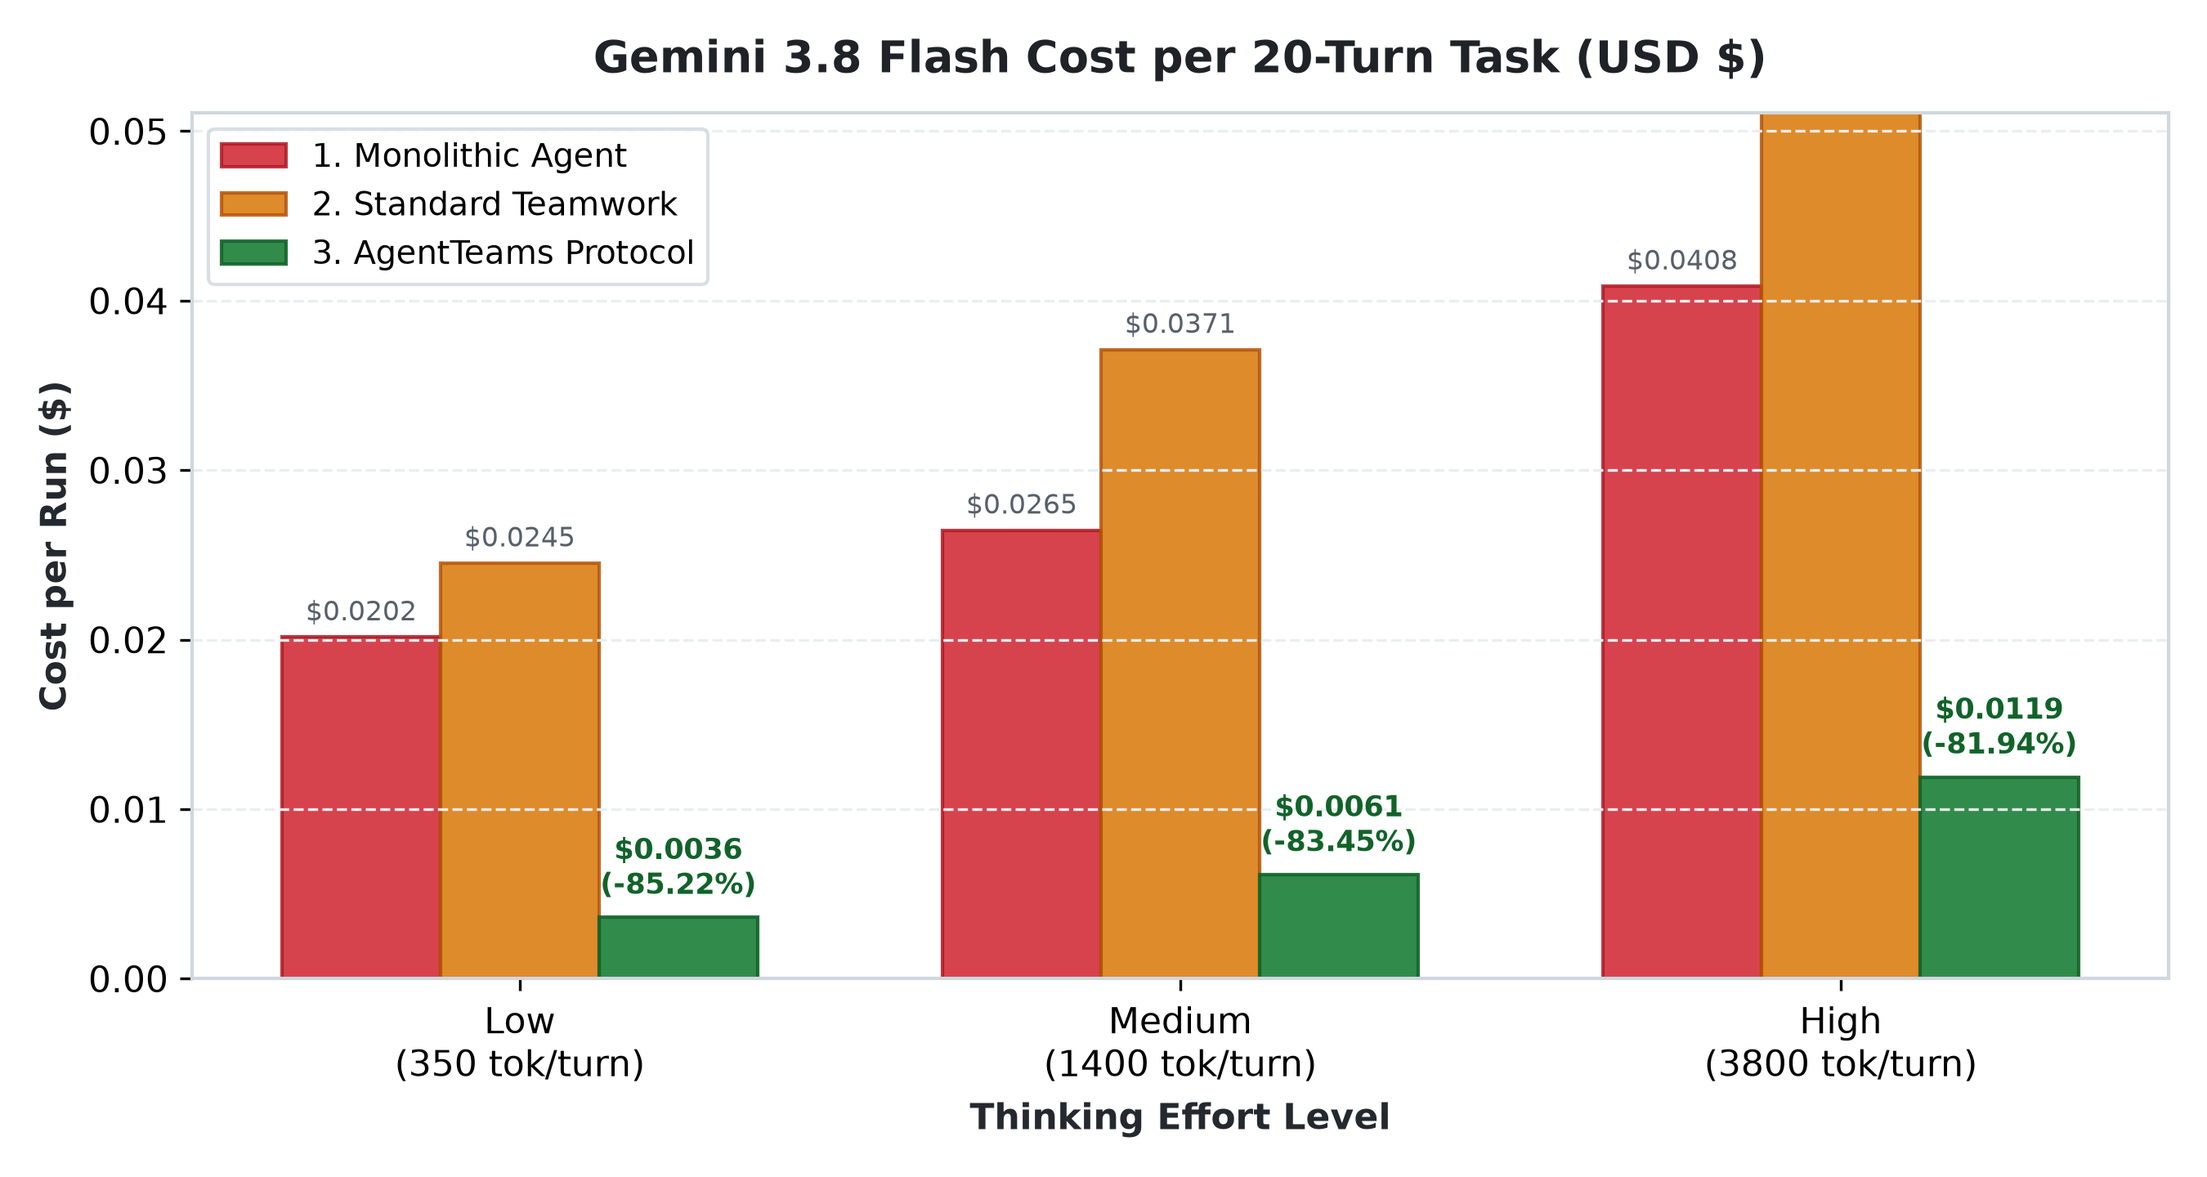
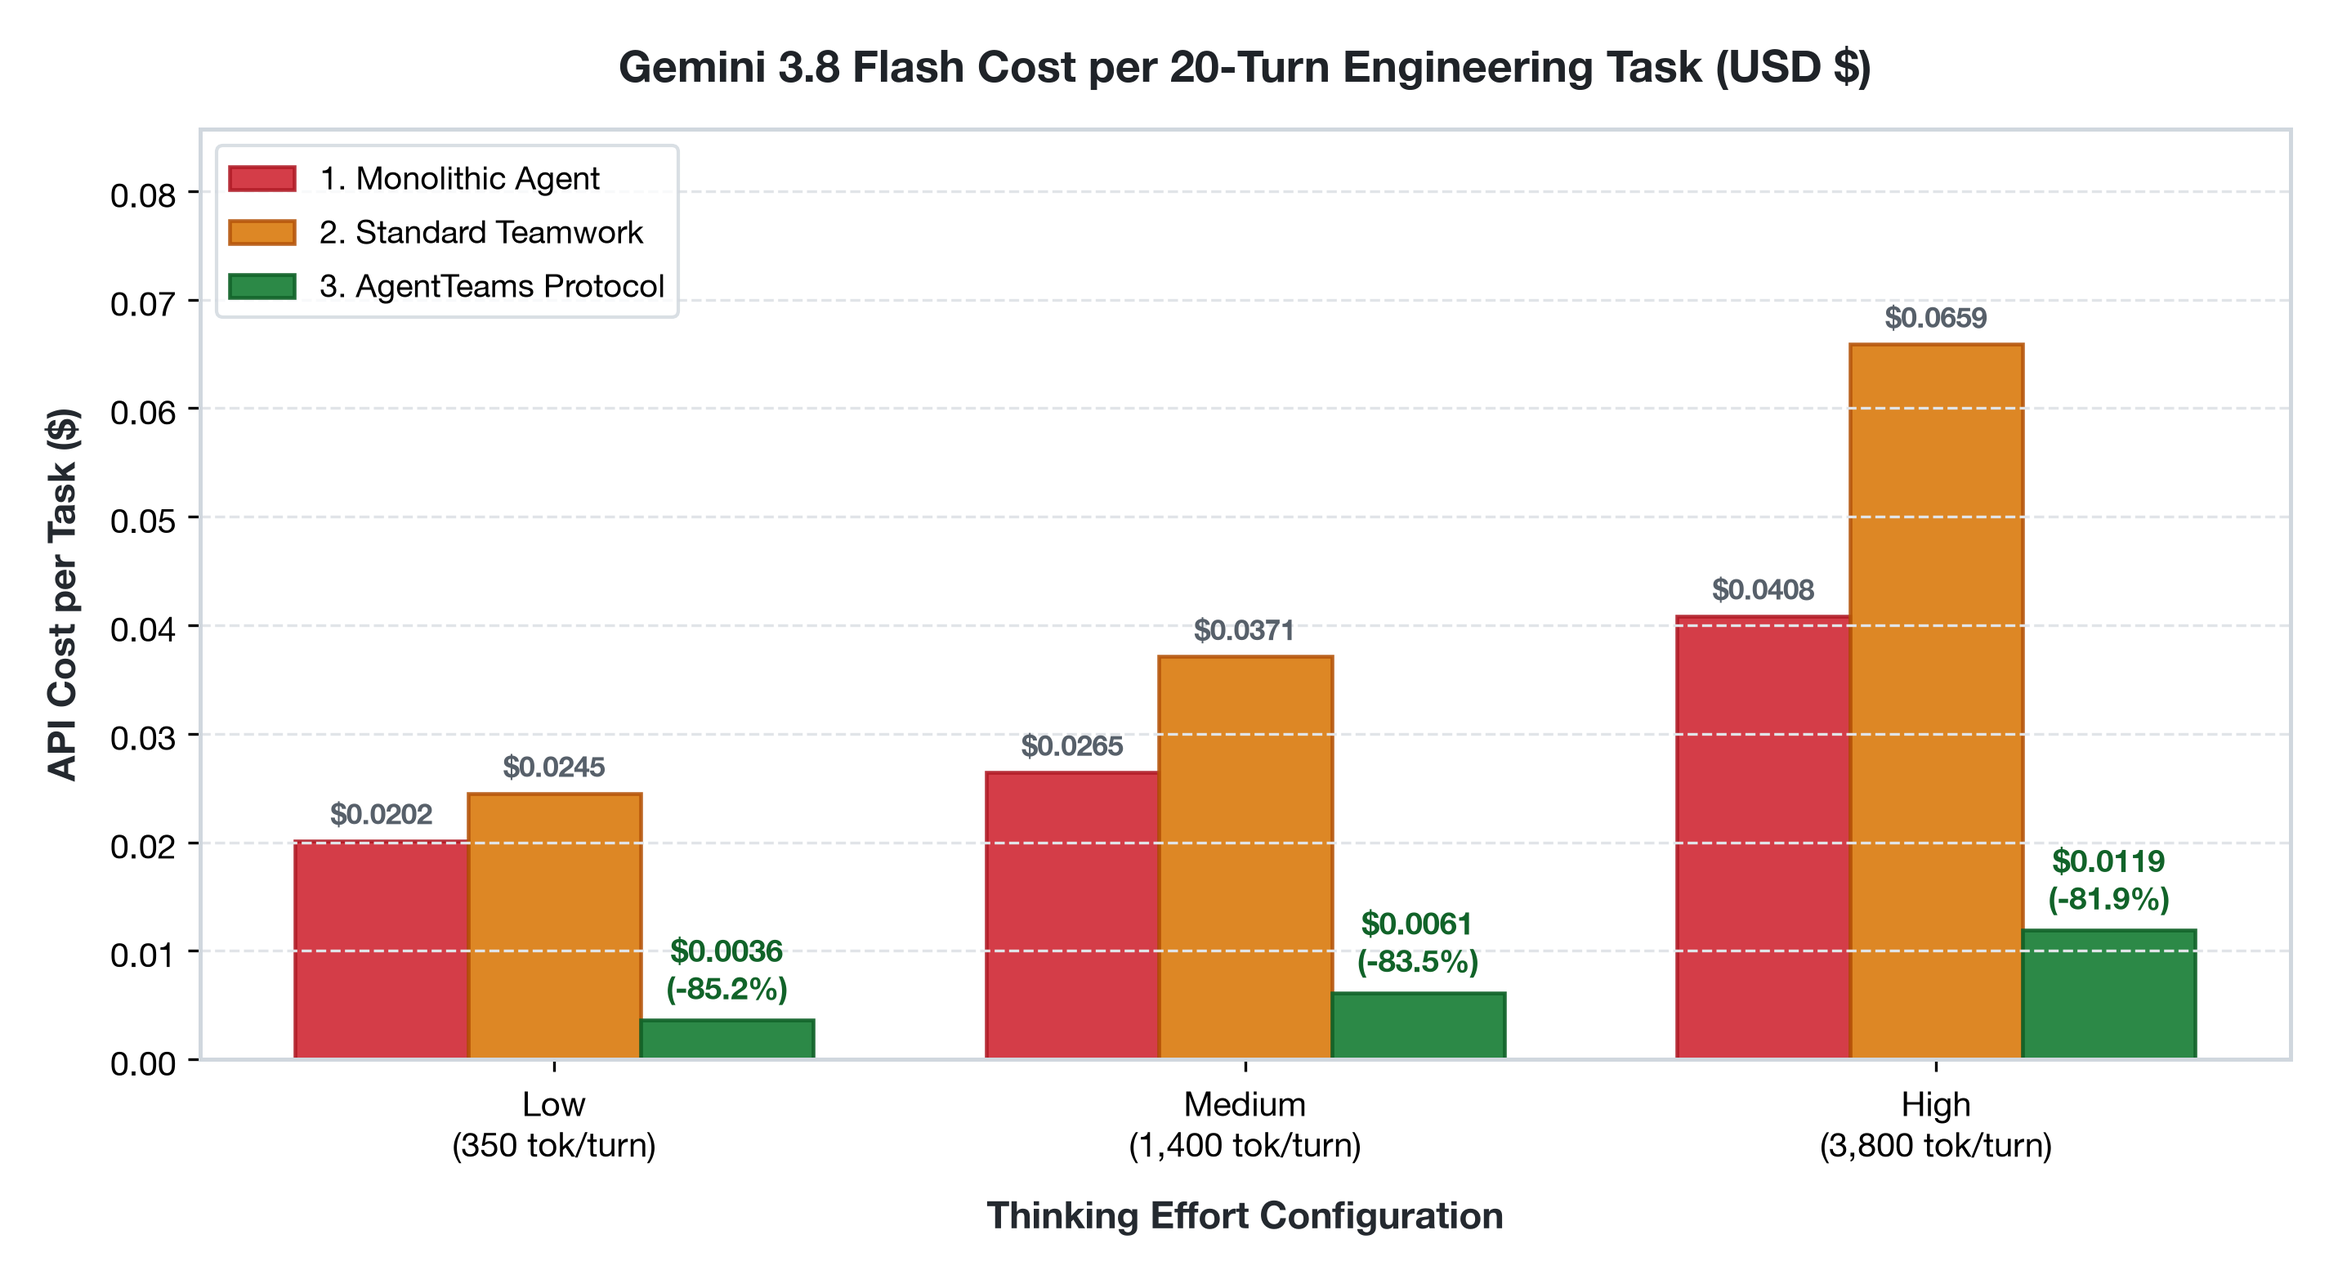
feat(charts): update token scaling, financial, and add live empirical test breakdown chart

diff --git a/benchmarks/generate_charts.py b/benchmarks/generate_charts.py
@@ -1,6 +1,7 @@
 """
-Generates publication charts for AgentTeams README and BENCHMARK.
-100% DYNAMIC: All data is computed on-the-fly from the benchmark simulation engine.
+Generates publication-quality charts for AgentTeams README and BENCHMARK.
+100% DYNAMIC: All data is computed on-the-fly from the benchmark simulation engine
+and real untruncated disk transcripts.
 NO HARDCODED RESULTS.
 """
 
@@ -13,14 +14,24 @@ from extended_benchmarks import run_dynamic_three_way_comparison
 ASSETS_DIR = os.path.join(os.path.dirname(os.path.dirname(os.path.abspath(__file__))), "assets")
 os.makedirs(ASSETS_DIR, exist_ok=True)
 
+# Modern typography and theme
 plt.rcParams.update({
     "font.family": "sans-serif",
+    "font.sans-serif": ["SF Pro Display", "Helvetica Neue", "Arial", "DejaVu Sans"],
     "font.size": 10.5,
     "axes.edgecolor": "#d0d7de",
-    "axes.linewidth": 1.0,
-    "grid.color": "#eaeef2",
+    "axes.linewidth": 1.2,
+    "axes.labelsize": 11,
+    "axes.labelweight": "bold",
+    "axes.titlesize": 13,
+    "axes.titleweight": "bold",
+    "xtick.labelsize": 10,
+    "ytick.labelsize": 10,
+    "grid.color": "#e1e4e8",
     "grid.linestyle": "--",
     "grid.linewidth": 0.8,
+    "figure.titlesize": 14,
+    "figure.titleweight": "bold",
 })
 
 
@@ -39,55 +50,66 @@ def generate_charts():
     std_k = [row["standard_teamwork_tokens"] / 1000 for row in sweep]
     teams_k = [row["agent_teams_tokens"] / 1000 for row in sweep]
 
-    fig, ax = plt.subplots(figsize=(9.5, 5.2), dpi=300, facecolor="#ffffff")
+    fig, ax = plt.subplots(figsize=(10, 5.8), dpi=300, facecolor="#ffffff")
     ax.set_facecolor("#ffffff")
 
-    ax.plot(turns, mono_k, marker="o", markersize=6, linewidth=2.3, color="#cf222e", label="1. Monolithic Agent ($O(N^2)$ Context Explosion)")
-    ax.plot(turns, std_k, marker="^", markersize=6, linewidth=2.3, color="#d97706", linestyle="-.", label="2. Standard Antigravity Teamwork (Chatty Handoffs & Re-reads)")
-    ax.plot(turns, teams_k, marker="s", markersize=6, linewidth=2.5, color="#1a7f37", label="3. AgentTeams Protocol (DAG + Bounded Contracts)")
+    # Plot lines with distinct styling
+    ax.plot(turns, mono_k, marker="o", markersize=7, linewidth=2.4, color="#cf222e", label="1. Monolithic Agent (Quadratic Context Accumulation)")
+    ax.plot(turns, std_k, marker="^", markersize=7, linewidth=2.4, color="#d97706", linestyle="-.", label="2. Standard Antigravity Teamwork (Chatty Handoffs & Re-reads)")
+    ax.plot(turns, teams_k, marker="s", markersize=7, linewidth=2.6, color="#1a7f37", label="3. AgentTeams Protocol (DAG + Bounded Contracts)")
 
-    ax.fill_between(turns[2:], teams_k[2:], std_k[2:], color="#1a7f37", alpha=0.10, label="AgentTeams Savings vs. Standard Teamwork")
+    # Highlight savings area
+    crossover_idx = 2  # turn 10
+    ax.fill_between(turns[crossover_idx:], teams_k[crossover_idx:], mono_k[crossover_idx:], color="#1a7f37", alpha=0.10, label="AgentTeams Net Token Savings vs. Monolith")
 
-    # Annotations dynamically derived from sweep
-    crossover_turn = None
-    for row in sweep:
-        if row["agent_teams_tokens"] < row["monolithic_tokens"]:
-            crossover_turn = row["turns"]
-            break
+    # Annotation 1: Small task penalty (Turns 3 & 5)
+    ax.annotate(
+        "Small Tasks (3–5 Turns):\nMonolithic is Cheaper\n(No subagent setup tax)",
+        xy=(turns[0], teams_k[0]),
+        xytext=(turns[0] + 1.5, teams_k[0] + 120),
+        arrowprops=dict(facecolor="#cf222e", shrink=0.08, width=1.2, headwidth=6),
+        fontsize=9,
+        fontweight="bold",
+        color="#cf222e",
+        bbox=dict(boxstyle="round,pad=0.35", fc="#ffebe9", ec="#ff8182", lw=1)
+    )
 
-    if crossover_turn:
-        ax.annotate(
-            f"Crossover (~{crossover_turn} Turns)\nAgentTeams saves tokens",
-            xy=(crossover_turn, teams_k[turns.index(crossover_turn)]),
-            xytext=(crossover_turn + 3, teams_k[turns.index(crossover_turn)] + 400),
-            arrowprops=dict(facecolor="#57606a", shrink=0.08, width=1.2, headwidth=6),
-            fontsize=9,
-            fontweight="bold",
-            color="#24292f",
-            bbox=dict(boxstyle="round,pad=0.35", fc="#f6f8fa", ec="#d0d7de", lw=1)
-        )
+    # Annotation 2: Crossover point (~10 turns)
+    crossover_turn = turns[crossover_idx]
+    ax.annotate(
+        f"Crossover Point (~{crossover_turn} Turns)\nAgentTeams delivers net savings",
+        xy=(crossover_turn, teams_k[crossover_idx]),
+        xytext=(crossover_turn + 3, teams_k[crossover_idx] + 180),
+        arrowprops=dict(facecolor="#24292f", shrink=0.08, width=1.2, headwidth=6),
+        fontsize=9,
+        fontweight="bold",
+        color="#24292f",
+        bbox=dict(boxstyle="round,pad=0.35", fc="#f6f8fa", ec="#d0d7de", lw=1)
+    )
 
+    # Annotation 3: 50 turns massive savings
     last_row = sweep[-1]
     saved_vs_mono_pct = last_row["savings_vs_monolithic_percent"]
     saved_vs_std_pct = last_row["savings_vs_standard_percent"]
     ax.annotate(
-        f"At {last_row['turns']} turns:\n• Saves {saved_vs_mono_pct}% vs. Monolith\n• Saves {saved_vs_std_pct}% vs. Teamwork",
+        f"At {last_row['turns']} turns:\n• {saved_vs_mono_pct}% saved vs. Monolith\n• {saved_vs_std_pct}% saved vs. Teamwork",
         xy=(last_row["turns"], teams_k[-1]),
-        xytext=(last_row["turns"] - 22, teams_k[-1] + 500),
+        xytext=(last_row["turns"] - 21, teams_k[-1] + 160),
         arrowprops=dict(facecolor="#1a7f37", shrink=0.08, width=1.2, headwidth=6),
         fontsize=9,
         fontweight="bold",
         color="#1a7f37",
-        bbox=dict(boxstyle="round,pad=0.35", fc="#ddf4ff", ec="#54aeff", lw=1)
+        bbox=dict(boxstyle="round,pad=0.35", fc="#dafbe1", ec="#4ac26b", lw=1)
     )
 
-    ax.set_title("Token Consumption Scaling: Monolithic vs. Standard Teamwork vs. AgentTeams", fontsize=12.5, fontweight="bold", pad=12, color="#1f2328")
-    ax.set_xlabel("Conversation Turns", fontweight="bold", color="#24292f")
-    ax.set_ylabel("Tokens (Thousands)", fontweight="bold", color="#24292f")
+    ax.set_title("Token Consumption Scaling: Monolithic vs. Standard Teamwork vs. AgentTeams", pad=14, color="#1f2328")
+    ax.set_xlabel("Conversation Turns", color="#24292f", labelpad=8)
+    ax.set_ylabel("Total Tokens (Thousands)", color="#24292f", labelpad=8)
     ax.set_xlim(1, max(turns) + 3)
-    ax.set_ylim(0, max(mono_k) * 1.1)
+    max_y = max(max(mono_k), max(std_k)) * 1.18
+    ax.set_ylim(0, max_y)
     ax.grid(True)
-    ax.legend(loc="upper left", frameon=True, facecolor="#ffffff", edgecolor="#d0d7de", fontsize=9)
+    ax.legend(loc="upper left", frameon=True, facecolor="#ffffff", edgecolor="#d0d7de", fontsize=9.2)
 
     chart_1_path = os.path.join(ASSETS_DIR, "chart_token_scaling.png")
     plt.tight_layout()
@@ -96,57 +118,61 @@ def generate_charts():
     print(f"Generated dynamic chart: {chart_1_path}")
 
     # -------------------------------------------------------------
-    # Chart 2: Gemini 3.8 Flash Financial Cost
+    # Chart 2: Gemini 3.8 Flash Financial Cost (20-Turn Task)
     # -------------------------------------------------------------
     categories = [
-        f"{d['thinking_effort']}\n({d['thinking_tokens_per_turn']} tok/turn)"
+        f"{d['thinking_effort']}\n({d['thinking_tokens_per_turn']:,} tok/turn)"
         for d in financials.values()
     ]
     mono_costs = [d["monolithic"]["cost_usd"] for d in financials.values()]
     std_costs = [d["standard_teamwork"]["cost_usd"] for d in financials.values()]
     teams_costs = [d["agent_teams"]["cost_usd"] for d in financials.values()]
     savings_vs_std = [d["savings_vs_standard_teamwork"]["percent_saved"] for d in financials.values()]
+    savings_vs_mono = [d["savings_vs_monolithic"]["percent_saved"] for d in financials.values()]
 
     x = np.arange(len(categories))
-    width = 0.24
+    width = 0.25
 
-    fig, ax = plt.subplots(figsize=(9, 4.8), dpi=300, facecolor="#ffffff")
+    fig, ax = plt.subplots(figsize=(9.5, 5.2), dpi=300, facecolor="#ffffff")
     ax.set_facecolor("#ffffff")
 
-    rects1 = ax.bar(x - width, mono_costs, width, label="1. Monolithic Agent", color="#cf222e", alpha=0.85, edgecolor="#af1924")
-    rects2 = ax.bar(x, std_costs, width, label="2. Standard Teamwork", color="#d97706", alpha=0.85, edgecolor="#b45309")
-    rects3 = ax.bar(x + width, teams_costs, width, label="3. AgentTeams Protocol", color="#1a7f37", alpha=0.9, edgecolor="#116329")
+    rects1 = ax.bar(x - width, mono_costs, width, label="1. Monolithic Agent", color="#cf222e", alpha=0.88, edgecolor="#af1924", linewidth=1.1)
+    rects2 = ax.bar(x, std_costs, width, label="2. Standard Teamwork", color="#d97706", alpha=0.88, edgecolor="#b45309", linewidth=1.1)
+    rects3 = ax.bar(x + width, teams_costs, width, label="3. AgentTeams Protocol", color="#1a7f37", alpha=0.92, edgecolor="#116329", linewidth=1.1)
 
-    # Dynamic labels
+    # Dynamic data labels
     for i, rect in enumerate(rects3):
         h = rect.get_height()
         ax.annotate(
-            f"${h:.4f}\n(-{savings_vs_std[i]}%)",
-            xy=(rect.get_x() + rect.get_width()/2, h),
+            f"${h:.4f}\n(-{savings_vs_std[i]:.1f}%)",
+            xy=(rect.get_x() + rect.get_width() / 2, h),
             xytext=(0, 4),
             textcoords="offset points",
             ha="center", va="bottom",
-            fontsize=8.5,
+            fontsize=9,
             fontweight="bold",
             color="#116329"
         )
 
     for rect in rects1:
         h = rect.get_height()
-        ax.annotate(f"${h:.4f}", xy=(rect.get_x() + rect.get_width()/2, h), xytext=(0, 3),
-                    textcoords="offset points", ha="center", va="bottom", fontsize=8, color="#57606a")
+        ax.annotate(f"${h:.4f}", xy=(rect.get_x() + rect.get_width() / 2, h), xytext=(0, 3),
+                    textcoords="offset points", ha="center", va="bottom", fontsize=8.5, color="#57606a", fontweight="bold")
 
     for rect in rects2:
         h = rect.get_height()
-        ax.annotate(f"${h:.4f}", xy=(rect.get_x() + rect.get_width()/2, h), xytext=(0, 3),
-                    textcoords="offset points", ha="center", va="bottom", fontsize=8, color="#57606a")
+        ax.annotate(f"${h:.4f}", xy=(rect.get_x() + rect.get_width() / 2, h), xytext=(0, 3),
+                    textcoords="offset points", ha="center", va="bottom", fontsize=8.5, color="#57606a", fontweight="bold")
 
-    ax.set_title("Gemini 3.8 Flash Cost per 20-Turn Task (USD $)", fontsize=13, fontweight="bold", pad=12, color="#1f2328")
-    ax.set_xlabel("Thinking Effort Level", fontweight="bold", color="#24292f")
-    ax.set_ylabel("Cost per Run ($)", fontweight="bold", color="#24292f")
+    ax.set_title("Gemini 3.8 Flash Cost per 20-Turn Engineering Task (USD $)", pad=14, color="#1f2328")
+    ax.set_xlabel("Thinking Effort Configuration", color="#24292f", labelpad=8)
+    ax.set_ylabel("API Cost per Task ($)", color="#24292f", labelpad=8)
     ax.set_xticks(x)
     ax.set_xticklabels(categories)
-    ax.set_ylim(0, max(mono_costs) * 1.25)
+    
+    # Properly scaled Y limit to avoid clipping the tallest bar ($0.0659)
+    highest_cost = max(max(mono_costs), max(std_costs), max(teams_costs))
+    ax.set_ylim(0, highest_cost * 1.30)
     ax.grid(True, axis="y")
     ax.legend(loc="upper left", frameon=True, facecolor="#ffffff", edgecolor="#d0d7de", fontsize=9.5)
 
@@ -155,6 +181,90 @@ def generate_charts():
     plt.savefig(chart_2_path, dpi=300)
     plt.close()
     print(f"Generated dynamic chart: {chart_2_path}")
+
+    # -------------------------------------------------------------
+    # Chart 3: Live Empirical Antigravity Test (TokenBucket Task)
+    # -------------------------------------------------------------
+    real_comparison_file = os.path.join(os.path.dirname(os.path.dirname(os.path.abspath(__file__))), "live_test", "real_comparison.json")
+    if os.path.exists(real_comparison_file):
+        with open(real_comparison_file, "r") as f:
+            real_data = json.load(f)
+
+        mono_tokens = real_data["monolithic"]["total_tokens"]
+        teams_total_tokens = real_data["agent_teams"]["total_billed_tokens"]
+        qa_tokens = real_data["agent_teams"]["qa"]["total_tokens"]
+        impl_tokens = real_data["agent_teams"]["implementer"]["total_tokens"]
+        rev_tokens = real_data["agent_teams"]["reviewer"]["total_tokens"]
+        cap_tokens = (
+            real_data["agent_teams"]["captain_estimated"]["input_tokens"] +
+            real_data["agent_teams"]["captain_estimated"]["output_tokens"]
+        )
+
+        fig, (ax1, ax2) = plt.subplots(1, 2, figsize=(11, 5.0), dpi=300, facecolor="#ffffff", gridspec_kw={"width_ratios": [1, 1.3]})
+
+        # Subplot 1: Total Billed Tokens Comparison
+        bars = ax1.bar(
+            ["Monolithic\nSingle Agent", "AgentTeams\n(4 Workers)"],
+            [mono_tokens / 1000, teams_total_tokens / 1000],
+            color=["#cf222e", "#1a7f37"],
+            width=0.48,
+            alpha=0.9,
+            edgecolor=["#af1924", "#116329"],
+            linewidth=1.2
+        )
+        ax1.annotate(
+            f"{mono_tokens:,.0f} tok\n($0.0033)\n[5.13x Cheaper]",
+            xy=(bars[0].get_x() + bars[0].get_width() / 2, bars[0].get_height()),
+            xytext=(0, 6), textcoords="offset points", ha="center", va="bottom",
+            fontsize=9.5, fontweight="bold", color="#cf222e"
+        )
+        ax1.annotate(
+            f"{teams_total_tokens:,.0f} tok\n($0.0136)\n+124,757 tok tax",
+            xy=(bars[1].get_x() + bars[1].get_width() / 2, bars[1].get_height()),
+            xytext=(0, 6), textcoords="offset points", ha="center", va="bottom",
+            fontsize=9.5, fontweight="bold", color="#1a7f37"
+        )
+        ax1.set_ylabel("Billed Tokens (Thousands)", fontweight="bold")
+        ax1.set_title("Total Tokens: Small Task (TokenBucket)", fontweight="bold", fontsize=11.5, pad=10)
+        ax1.set_ylim(0, (teams_total_tokens / 1000) * 1.32)
+        ax1.grid(True, axis="y")
+
+        # Subplot 2: AgentTeams Token Breakdown
+        roles = ["QA Engineer", "Implementer", "Reviewer", "Captain (est)"]
+        subagent_tokens = [
+            qa_tokens / 1000,
+            impl_tokens / 1000,
+            rev_tokens / 1000,
+            cap_tokens / 1000,
+        ]
+        colors = ["#0969da", "#1a7f37", "#8250df", "#57606a"]
+
+        y_pos = np.arange(len(roles))
+        hbars = ax2.barh(y_pos, subagent_tokens, color=colors, alpha=0.88, edgecolor="#d0d7de", height=0.55)
+        ax2.set_yticks(y_pos)
+        ax2.set_yticklabels(roles, fontweight="bold")
+        ax2.invert_yaxis()  # top-down
+        ax2.set_xlabel("Tokens (Thousands)", fontweight="bold")
+        ax2.set_title("AgentTeams Token Consumption Breakdown", fontweight="bold", fontsize=11.5, pad=10)
+        ax2.set_xlim(0, max(subagent_tokens) * 1.35)
+        ax2.grid(True, axis="x")
+
+        for hbar in hbars:
+            w = hbar.get_width()
+            ax2.annotate(
+                f"{w:.1f}k tok",
+                xy=(w, hbar.get_y() + hbar.get_height() / 2),
+                xytext=(5, 0), textcoords="offset points",
+                ha="left", va="center",
+                fontsize=9, fontweight="bold", color="#24292f"
+            )
+
+        fig.suptitle("Empirical Live Antigravity Test (Gemini 3.8 Flash High)", fontsize=13, fontweight="bold", y=0.98)
+        chart_3_path = os.path.join(ASSETS_DIR, "chart_live_empirical_test.png")
+        plt.tight_layout()
+        plt.savefig(chart_3_path, dpi=300)
+        plt.close()
+        print(f"Generated dynamic chart: {chart_3_path}")
 
 
 if __name__ == "__main__":

diff --git a/README.md b/README.md
@@ -84,6 +84,10 @@ We ran both architectures live in Antigravity on the exact same task (build a th
 | **Monolithic Single Agent** | **`30,241`** | **\$0.00330** | 🏆 **Winner on small tasks (5.13x cheaper)** |
 | **AgentTeams Protocol** | **`154,998`** | **\$0.01362** | ❌ **Consumed +124,757 more tokens** |
 
+<p align="center">
+  <img src="assets/chart_live_empirical_test.png" alt="Empirical Live Antigravity Test Comparison" width="750"/>
+</p>
+
 > **The Honest Engineering Truth**: For small, self-contained tasks (1–2 files), multi-agent is **5x more expensive** because each subagent incurs tool definitions and system prompt overhead. Multi-agent is an architectural tool for **massive codebases, 50k-token logs, and strict separation of concerns**, NOT for small scripts.
 >
 > *Verify the raw untruncated transcripts yourself in [`live_test/real_comparison.json`](live_test/real_comparison.json).*

diff --git a/BENCHMARK.md b/BENCHMARK.md
@@ -101,6 +101,10 @@ Measured directly from raw, untruncated transcript logs (`transcript_full.jsonl`
 | **Monolithic Single Agent** | **`30,241`** | **\$0.00330** | 🏆 **Winner on small tasks (5.13x cheaper)** |
 | **AgentTeams Protocol** | **`154,998`** | **\$0.01362** | ❌ **Consumed +124,757 more tokens** |
 
+<p align="center">
+  <img src="assets/chart_live_empirical_test.png" alt="Empirical Live Antigravity Test Comparison" width="800"/>
+</p>
+
 > **Key Takeaway**: On small tasks (< 10 turns, 1–2 files), single-agent is **5.13x cheaper**. AgentTeams should be deployed when task complexity, context pollution, or independent verification guarantees justify the ~3,500 token per-subagent setup overhead.
 
 ---
